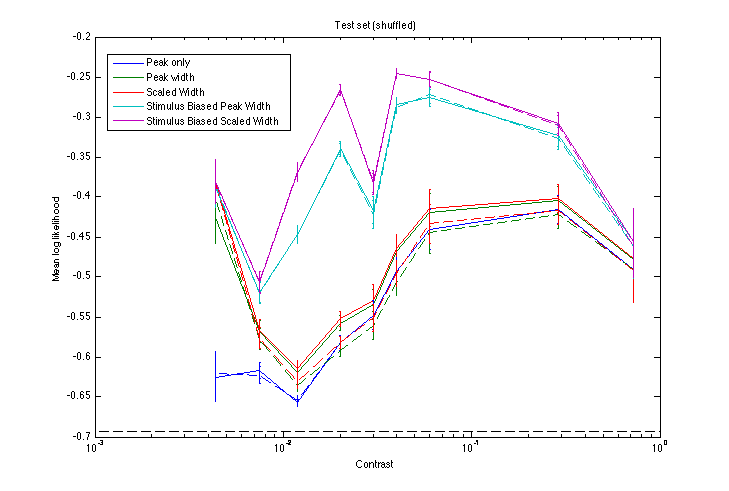
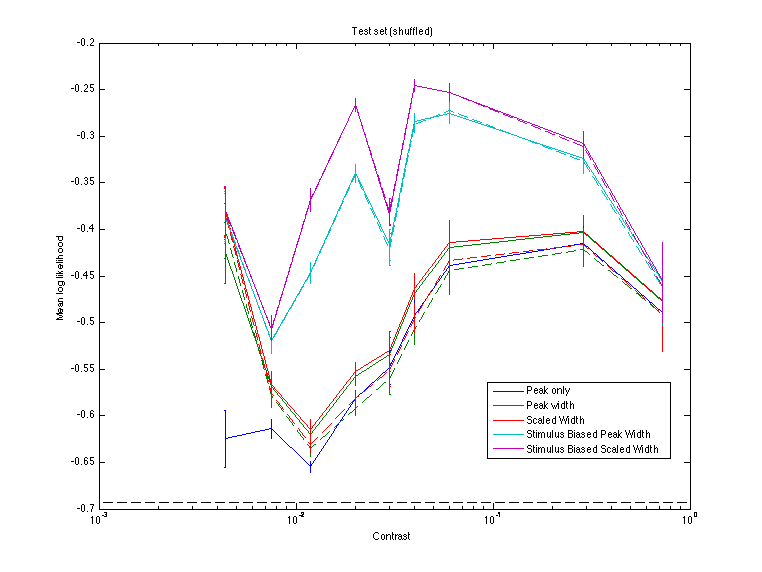
Update parameterized shuffling figure generation

diff --git a/figures/ParameterizedShuffling.m b/figures/ParameterizedShuffling.m
@@ -1,7 +1,7 @@
 original_fits=fetch((cd_plc.PLCTrainSets * cd_plset.ContrastSessionPLSet) * cd_plc.TrainedPLC, '*');
 [data_original,v_plc_id, v_trainset_hash]  = dj.struct.tabulate(original_fits, 'plc_train_mu_logl', 'plc_id' , 'plc_trainset_hash');
 [contrasts, v_hash] = dj.struct.tabulate(original_fits, 'dataset_contrast', 'plc_trainset_hash');
-contrasts = cellfun(@str2num, contrasts(:,1));
+all_contrasts = cellfun(@str2num, contrasts(:,1));
 shuffled_fits = fetch((cd_plc.PLCTrainSets * cd_plset.ShuffledPLSets) * cd_plc.TrainedPLC, '*');
 data_shuffled = dj.struct.tabulate(shuffled_fits, 'plc_train_mu_logl', 'plc_id', 'source_plset_hash', 'plshuffle_method');
 mu_shuffled_kinds = mean(data_shuffled, 4);
@@ -9,11 +9,15 @@ mu_shuffled_kinds = mean(data_shuffled, 4);
 modelNames = fetchn(cd_plc.PLCModels, 'plc_label');
 trainLL = data_original';
 testLL = mu_shuffled_kinds';
+testLL(:, 1) = trainLL(:, 1);
+
+edges = arrayfun(@(x) prctile(all_contrasts, x), 0:10:100);
+edges = [0, unique(edges), 1];
+edges = 0.5*(edges(1:end-1) + edges(2:end));
 
 %% Contrast vs mean logL plot for non-shuffled and shuffled
 line_color = lines(length(modelNames));
 figure;
-all_contrasts = contrasts;
 x = logspace(-3, 0, 100);
 for idxModel = 1:size(trainLL, 2)
     [mu, s, n, binc] = nanBinnedStats(all_contrasts, trainLL(:, idxModel), edges);
